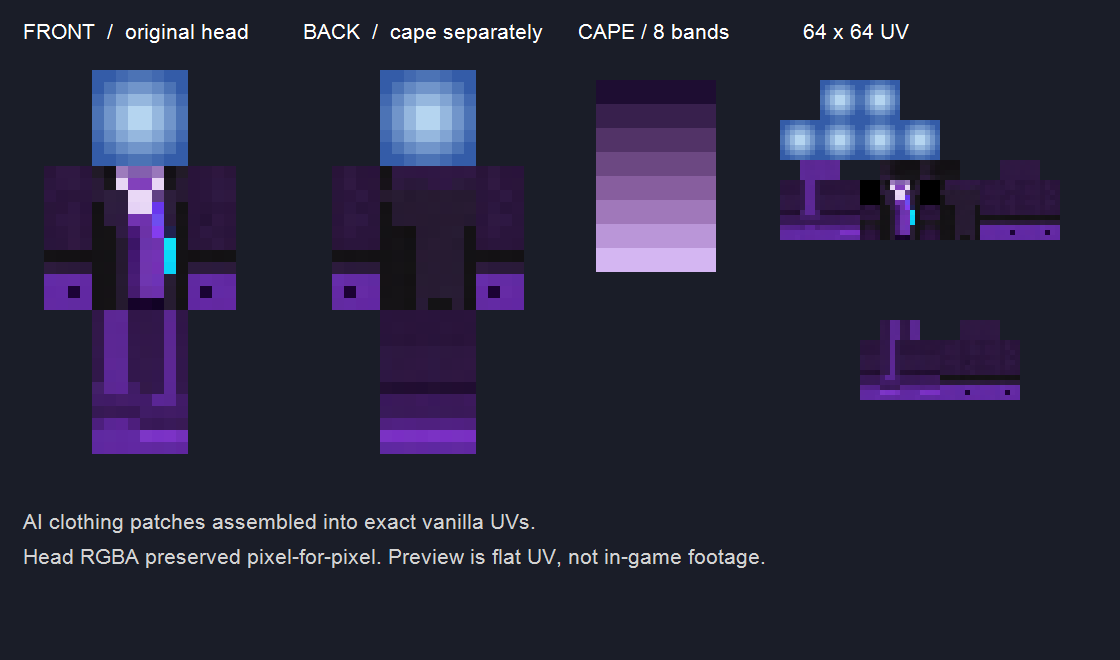
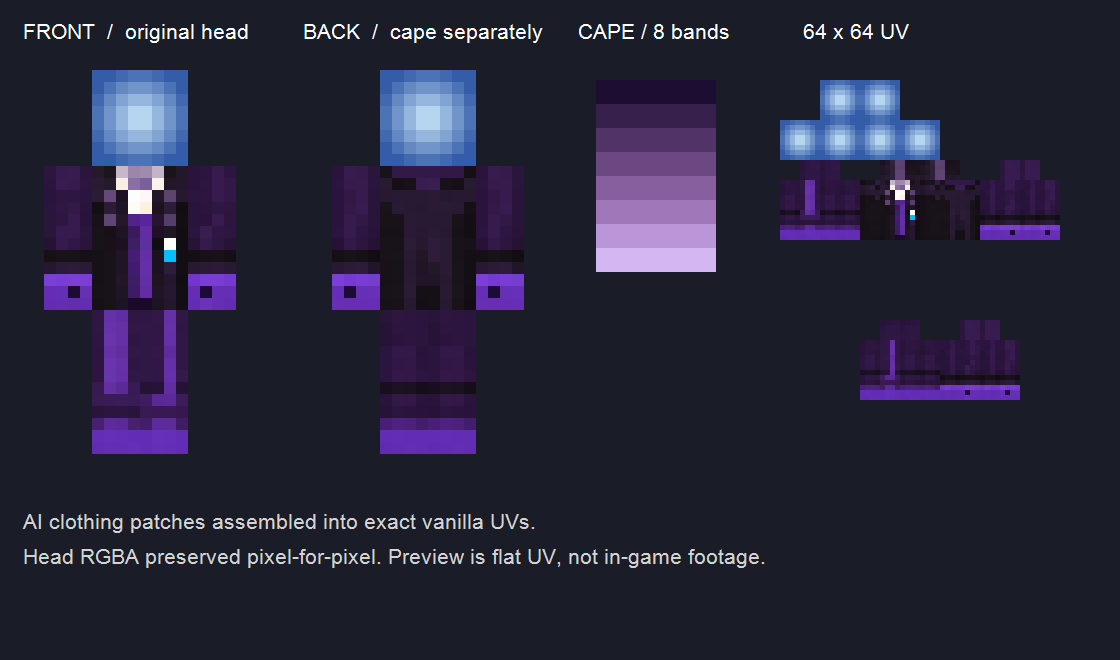
Goety Tuner v0.0.15 - 本体贴图精修（头部逐像素不变）
由另一位 agent 用 imagegen 精修 body 贴图，内容已核实。本轮**只改贴图 + 版本号 + 文档**，
没有任何 Java 改动、没有新增/删除资源、配置项数不变（仍 63）。

贴图（src/main/resources/assets/goetytuner/textures/entity/tuner.png，64x64 RGBA，2520 -> 2676 B）：
- 保留紫黑礼服 / 紫色袖口裤靴 / 浅色领巾 / 青色胸饰，精修翻领边缘、衣袖明暗、袖口细边、
  裤缝与靴口层次。
- **独立核验（不依赖其自带脚本）**：以 git HEAD（0.0.14）为基准逐像素差分 ——
  头部区 y0..15 全宽 64 列 **0 个像素差异**；全图 **alpha 蒙版完全一致**（未增删不透明像素）；
  身体区改动 **1247 像素**（与其自报数字吻合）；6 个主要 UV 面 **无透明空洞**。
- 制作过程入库：art/REFINEMENT.md（报告与最终提示词）、art/assemble-refinement.ps1（可复现装配）、
  art/body-refined-source.png（image_gen 原稿）、art/tuner-before-refinement.png（精修前备份）、
  以及更新后的 art/preview.png。

文档：四份说明文档各加一行「当前工作版本：0.0.15」横幅并指向 art/REFINEMENT.md
（旧版本说明保留为历史记录）。

部署：goetytuner-0.0.15.jar / 1,755,456 B / md5 1865ECF4EB22989319FD746806320776 / 102 条目，
已放入 versions\测试\mods（旧 0.0.14 已删）。核验：jar 内 4 张贴图与源码**逐字节一致**、
mods.toml `version="0.0.15"`、中文 credits 完好；并确认 0.0.13/0.0.14 的功能仍在
（blacklistBox / isPhase2Immune / refreshBlacklist / MusicController 的 ACCENT_DENSITY_DIVISOR
与 Accent thinning 日志串均存在）。

diff --git a/README.md b/README.md
@@ -1,5 +1,7 @@
 # Goety Tuner · 调律师
 
+> 当前工作版本：**0.0.15**。本体贴图精修，保持原有紫黑像素风与头部；详见 [精修记录](art/REFINEMENT.md)。下文旧版本说明保留为历史记录。
+
 > **0.0.14 发布（第 52 轮）**：本轮两件事，改 **4 个 Java 文件**（`client/TunerConfigScreen`、`focus/FocusPoolManager`、`entity/TunerBoss`、`config/TunerCommonConfig`）+ **2 个 lang** + 版本号，**只改代码、不动任何贴图/资源**（`.java` 仍 45 个、jar 条目仍 102）；**新增 1 个配置项** `phase2_buffs.phase2EffectImmunity`（Boolean，默认 **true**）⇒ 配置 **62 → 63 项**（`phase2_buffs` 段 **3 → 4**，`boss` 段仍 **19**，section 仍 10）。① **配置界面新增「聚晶黑名单」输入框**（`client/TunerConfigScreen` + `focus/FocusPoolManager`）：`focus.blacklist` 是 common 配置，而本模组的 `TunerConfigScreen` **顶替了 Forge 默认的 toml 编辑器**，该键此前在游戏内**完全没有入口**、只能手改文件；现补一个单行 `EditBox`（预填当前值，提示「namespace:path，英文逗号分隔；留空=不屏蔽」），**点「完成」关屏时保存**（最自然的"改完了"信号），点「开始评分」时也**顺带保存**；保存动作 = `FOCUS_BLACKLIST.set(v)` + `.save()` + `FocusPoolManager.refreshBlacklist()` ⇒ **改完立即生效**（`getBlacklist()` 以 raw 字符串为缓存键，值一变缓存自动失效 ⇒ 下一次抽取就过滤）。**新增 `FocusPoolManager.refreshBlacklist()`**：`initIfNeeded()` 扫描时是**直接 `continue` 跳过**黑名单聚晶（它们不进 `ALL_ENTRIES`），所以"**新增**拉黑"能靠 `draw()/drawUniform()` 的实时过滤立刻生效，但"**取消**拉黑"必须重扫才会回来；而重扫若 `new` 出全新 `FocusEntry`，会让实体侧那些**按对象身份**记录的状态失效（`TunerBoss.activeVisualCasts` 身份集合、`CastChannel.current`）⇒ 出现「立方体高亮卡住 / 施法收尾回调对不上」这类隐蔽问题。故新方法按 `namespace:path` 建索引**复用已有 `FocusEntry` 对象**，只为"这次才被解禁"的聚晶新建（它们此前不可能在施法中，故安全），然后重建 `STATIC_POOLS` 并重新 `applyTo` 分类。新增 4 个 lang 键（zh_cn / en_us 各 4 个）。限制：连他人的服务器时改的是**本地**那份 common toml，服务器侧不受影响（单机/局域网主机同进程，正常生效）。② **二阶段免疫「回复 / 减伤」类药水效果**（`entity/TunerBoss` + `config/TunerCommonConfig`）：扩展现有的 `canBeAffected` 覆写（它同时是 `addEffect` 与 `forceAddEffect` 的**第一道**判定，在这里返回 false 就是真正的免疫，而不是"加完再清"）；免疫名单 = **抗性提升** `DAMAGE_RESISTANCE` / **伤害吸收** `ABSORPTION` / **生命恢复** `REGENERATION` / **瞬间治疗** `HEAL` / **生命提升** `HEALTH_BOOST`，**仅当 `music.isPhase2()`** 时生效。**刻意只列这 5 项而不是"所有 beneficial"**：Boss 自己的二阶段增益（力量 `DAMAGE_BOOST` 与重振 `RALLYING`）也是 beneficial，一刀切会把它们一起禁掉；名单集中在私有 `isPhase2Immune(...)`，以后要加（例如某个附属的自定义减伤）加一行即可。新增配置 `phase2_buffs.phase2EffectImmunity`（Boolean，**默认 true**），false = 回到旧行为；不影响玩家的同类效果，也不影响 Boss 自己的二阶段自施。详见 `TECHNICAL_SUMMARY.md` §3.15。
 >
 > **上一轮（0.0.13）修复**：本轮改了 **7 个 Java 文件** + 版本号，**只改代码、不动任何贴图/资源**（`.java` 仍 45 个、jar 条目仍 102）；**新增 1 个配置项** `music.accentDensityDivisor` ⇒ 配置 **61 → 62 项**（`music` 段 12 → 13，section 仍 10）。① **修「玩家被击杀复活后（未走出索敌范围）背景音乐丢失」**（`client/BossMusicManager`）：起播唯一入口是 `if (music == null) startMusic()`，而"是否在播"**只**记录为静态字段 `music != null`、**从不与声音引擎核对**；玩家死亡/复活时引擎会把循环实例悄悄摘除（RECORDS 音量为 0、channel 停止、`SoundEngine.reload()→destroy()→stopAll()`、`play()` 在未 loaded 时静默返回），字段却仍非 null ⇒ 只要服务端 `playing` 一直为 true（**没脱战**），`startMusic` **永不重入** = **永久静音**；且 `onPlaySound` 也只看字段 ⇒ **连原版背景音乐也一起被永久取消**（症状「整个 BGM 都没了」）。修法：每 tick 用 **`SoundManager.isActive(music)`**（1.20.1 自带 API，已反编译确认存在）核实实例是否真的在响，失效即清空字段、下一 tick 自动重建（**自愈**），并加 **10 tick 防抖**；`onPlaySound` 判据同步改为 `music != null && isActive(music)`。② **重音标记滚动平滑 + 高潮改细小长条**（`client/MusicBarHud`）：`fill()` 只能落在整数像素、而刻度只有 1~2px ⇒ 取整后**逐像素跳动**；改为**亚像素覆盖**（小数部分按比例摊到相邻两列，亮度重心连续移动，调用点不再预先取整）；高潮的「中」字（贯通竖线 + 空心方框）改为**小长条**：高潮 **2×6** 最亮 / 低谷 **1×6** / 铺垫 **1×4**，全部竖向居中。③ **涟漪多波共存**（`client/AccentWaveRenderer` 的 `Map` 改 `List` + `MAX_WAVES = 32`）：二阶段进场重音每 5 tick 一发、连发多次，原先后一发**顶掉**前一发 ⇒ 只看到一条波反复重播；现每发各成一条波、各自计时，层叠外扩。④ **重音数量与频率降为 1/3**：新增 `music.accentDensityDivisor`（`IntValue`，默认 **3**、范围 1~9），从乐谱重音表"每 N 个保留 1 个"；抽稀在**服务端加载乐谱时**统一进行 ⇒ HUD 刻度（经 `SMusicSyncPacket` 全量同步）、击退、涟漪、提示音**一起**变稀疏，客户端无需改动（默认乐谱 37 → **13** 个重音，INFO `Accent thinning x3: 37 -> 13 accents`）。⑤ **小立方体高亮更明显 + 发光**（`client/render/TunerOrbLayer`）：高亮原为 `min(1, color*(1+glow*0.8))`，红/蓝/灰分量本就近 1、被 `min` 截断后**几乎看不出变化**，改为额外叠加 `glow*0.4` 逐通道**向白靠拢**；「发光」用**两层自发光外壳**（1.30×/alpha 0.36、再叠 1.35×/alpha 0.18，`RenderType.entityTranslucentEmissive`，着色器忽略光照 ⇒ 稳定发亮；已实证它同样无条件 `NO_CULL`）——**不能用原版发光描边**（MC 的发光是**整实体级** framebuffer 后处理 `OutlineBufferSource`，只能整只 Boss 一起描边，**无法只描一颗立方体**）。⑥ **药水效果可观测性**（`entity/TunerBoss`）：8 处 `addEffect(...)` 的 boolean 返回值原先**全被丢弃**，而 `canBeAffected` 与 Forge 的 `MobEffectEvent.Applicable` 都在这一步否掉 ⇒ 被拒时**静默失效、日志无一字**；新增 `applySelfEffect(...)` 打 WARN（已用于 boss 自身 4 处），并完成药水现状审计（见 `TECHNICAL_SUMMARY.md` §3.14(6)）。⑦ **配置侧**把 `goety:killing_focus`（索命聚晶，对施法者反噬 125%）加入 `focus.blacklist`——**这是配置侧改动、不在 jar 内**；且 `focus.blacklist`（乃至整个 `goetytuner-common.toml`）**无法在游戏内配置界面修改**。0.0.10 美术项与 0.0.12 新外观仍待游戏画面验收，见 [ART_ASSETS_REPORT.md](ART_ASSETS_REPORT.md)。

diff --git a/TECHNICAL_SUMMARY.md b/TECHNICAL_SUMMARY.md
@@ -1,5 +1,7 @@
 # Goety Tuner（调律师）技术摘要
 
+> 当前工作版本：**0.0.15**。本体贴图精修，保持原有紫黑像素风与头部；详见 [精修记录](art/REFINEMENT.md)。下文旧版本说明保留为历史记录。
+
 > **0.0.14 发布（第 52 轮）**：本轮两件事，改 **4 个 Java 文件**（`client/TunerConfigScreen`、`focus/FocusPoolManager`、`entity/TunerBoss`、`config/TunerCommonConfig`）+ **2 个 lang** + 版本号，**只改代码、不动任何贴图/资源**（`.java` 文件数仍 45、jar 条目仍 102）；**新增 1 个配置项** `phase2_buffs.phase2EffectImmunity`（Boolean，默认 **true**）⇒ 配置 **62 → 63 项**（`phase2_buffs` 段 **3 → 4**，`boss` 段仍 **19**，section 数仍 10）。① **配置界面新增「聚晶黑名单」输入框**（`client/TunerConfigScreen` + `focus/FocusPoolManager`）：`focus.blacklist` 是 common 配置，而本模组的 `TunerConfigScreen` **顶替了 Forge 默认的 toml 编辑器**，该键此前在游戏内**完全没有入口**、只能手改文件；现补一个单行 `EditBox`（预填当前值，提示「namespace:path，英文逗号分隔；留空=不屏蔽」），**点「完成」关屏时保存**（最自然的"改完了"信号），点「开始评分」时也**顺带保存**；保存动作 = `FOCUS_BLACKLIST.set(v)` + `.save()` + `FocusPoolManager.refreshBlacklist()` ⇒ **改完立即生效**（`getBlacklist()` 以 raw 字符串为缓存键，值一变缓存自动失效 ⇒ 下一次抽取就过滤）。**新增 `FocusPoolManager.refreshBlacklist()`**：`initIfNeeded()` 扫描时是**直接 `continue` 跳过**黑名单聚晶（它们不进 `ALL_ENTRIES`），所以"**新增**拉黑"能靠 `draw()/drawUniform()` 的实时过滤立刻生效，但"**取消**拉黑"必须重扫才会回来；而重扫若 `new` 出全新 `FocusEntry`，会让实体侧那些**按对象身份**记录的状态失效（`TunerBoss.activeVisualCasts` 身份集合、`CastChannel.current`）⇒ 出现「立方体高亮卡住 / 施法收尾回调对不上」这类隐蔽问题。故新方法按 `namespace:path` 建索引**复用已有 `FocusEntry` 对象**，只为"这次才被解禁"的聚晶新建（它们此前不可能在施法中，故安全），然后重建 `STATIC_POOLS` 并重新 `applyTo` 分类。新增 4 个 lang 键（zh_cn / en_us 各 4 个）：`config.goetytuner.blacklist.label` / `.blacklist` / `.blacklist.hint` / `.blacklist.saved`。限制：连他人的服务器时改的是**本地**那份 common toml，服务器侧不受影响（单机/局域网主机同进程，正常生效）。② **二阶段免疫「回复 / 减伤」类药水效果**（`entity/TunerBoss` + `config/TunerCommonConfig`）：扩展现有的 `canBeAffected` 覆写（它同时是 `addEffect` 与 `forceAddEffect` 的**第一道**判定，在这里返回 false 就是真正的免疫，而不是"加完再清"）；免疫名单 = **抗性提升** `DAMAGE_RESISTANCE` / **伤害吸收** `ABSORPTION` / **生命恢复** `REGENERATION` / **瞬间治疗** `HEAL` / **生命提升** `HEALTH_BOOST`，**仅当 `music.isPhase2()`** 时生效。**刻意只列这 5 项而不是"所有 beneficial"**：Boss 自己的二阶段增益（力量 `DAMAGE_BOOST` 与重振 `RALLYING`）也是 beneficial，一刀切会把它们一起禁掉；名单集中在私有 `isPhase2Immune(...)`，以后要加（例如某个附属的自定义减伤）加一行即可。新增配置 `phase2_buffs.phase2EffectImmunity`（Boolean，**默认 true**），false = 回到旧行为；不影响玩家的同类效果，也不影响 Boss 自己的二阶段自施。详见 §3.15。
 >
 > **上一轮（0.0.13）修复**：本轮改了 **7 个 Java 文件** + 版本号，**只改代码、不动任何贴图/资源**（`.java` 文件数仍 45、jar 条目仍 102）；**新增 1 个配置项** `music.accentDensityDivisor` ⇒ 配置 **61 → 62 项**（`music` 段 12 → 13，section 数仍 10）。① **修「玩家被击杀复活后（未走出索敌范围）背景音乐丢失」**：`BossMusicManager` 原先只以静态字段 `music != null` 当作「在播」，**从不与声音引擎核对**，而死亡/复活会让引擎把循环实例悄悄摘除（RECORDS 音量为 0 / channel 被停止 / `SoundEngine.reload()→destroy()→stopAll()` / `play()` 在未 loaded 时静默返回），字段却仍非 null ⇒ 只要服务端 `playing` 一直为 true（没脱战）`startMusic` **永不重入** = **永久静音**；且 `onPlaySound` 同样只看字段 ⇒ **连原版背景音乐也一起被永久取消**（用户症状「整个 BGM 都没了」）。改为每 tick 用 **`SoundManager.isActive(music)`**（1.20.1 自带 API）核实实例是否真的在响，失效即清空字段、下一 tick 自动重建（**自愈**），并加 **10 tick 防抖**；`onPlaySound` 判据同步改为 `music != null && isActive(music)`。详见 §3.14(1)。② **重音标记滚动平滑 + 高潮标记改小长条**（`MusicBarHud`）：`fill()` 只能落在整数像素、而刻度是 1~2px 细条，取整后**逐像素跳动**；改为**亚像素覆盖**（小数部分按比例摊到相邻两列，亮度重心连续移动）；高潮的「中」字（贯通竖线 + 空心方框）改为**小长条**（高潮 2×6 / 低谷 1×6 / 铺垫 1×4，竖向居中）。③ **涟漪多波共存**（`AccentWaveRenderer` 的 `Map` 改 `List` + `MAX_WAVES = 32`）：二阶段进场重音每 5 tick 一发，原先后一发**顶掉**前一发、只看到一条波反复重播。④ **重音抽稀**：新增 `music.accentDensityDivisor`（默认 **3**、范围 1~9）在**服务端加载乐谱时**「每 N 个保留 1 个」⇒ HUD 刻度（经 `SMusicSyncPacket` 全量同步）/ 击退 / 涟漪 / 提示音**一起**变稀疏、客户端零改动（默认乐谱 37 → **13** 个重音）。⑤ **立方体高亮改「向白插值」+ 两层自发光外壳当发光**（`TunerOrbLayer`）：原 `min(1, color*(1+glow*0.8))` 因各分量已接近 1 而被截断、几乎看不出高亮；发光**不能用原版描边**（MC 的发光是**整实体级** framebuffer 后处理 `OutlineBufferSource`，无法只描一颗立方体），故改用 `entityTranslucentEmissive` 外壳。⑥ **药水可观测性**：8 处 `addEffect` 的 boolean 返回值原先全被丢弃 ⇒ 被 `canBeAffected` / `MobEffectEvent.Applicable` 拒绝时静默失效；新增 `applySelfEffect` 打 WARN（已用于 boss 自身 4 处），并完成药水现状审计（详见 §3.14(6)）。⑦ 配置侧把 **`goety:killing_focus`（索命聚晶）** 加入 `focus.blacklist`——**这是配置侧改动、不在 jar 内**；且 `focus.blacklist`（乃至整个 `goetytuner-common.toml`）**无法在游戏内配置界面修改**。0.0.10 美术项与 0.0.12 新外观仍待游戏画面验收，见 [ART_ASSETS_REPORT.md](ART_ASSETS_REPORT.md)。

diff --git a/DEVELOPMENT_PLAN.md b/DEVELOPMENT_PLAN.md
@@ -1,5 +1,7 @@
 # 调律师 (The Tuner) — 诡厄巫法附属Boss · 开发计划书 V2
 
+> 当前工作版本：**0.0.15**。本体贴图精修，保持原有紫黑像素风与头部；详见 [精修记录](art/REFINEMENT.md)。下文旧版本说明保留为历史记录。
+
 > **0.0.14 发布（第 52 轮）**：本轮两件事，改 **4 个 Java 文件**（`client/TunerConfigScreen`、`focus/FocusPoolManager`、`entity/TunerBoss`、`config/TunerCommonConfig`）+ **2 个 lang** + 版本号，**只改代码、不动任何贴图/资源**（`.java` 文件数仍 45、jar 条目仍 102）；**新增 1 个配置项** `phase2_buffs.phase2EffectImmunity`（Boolean，默认 **true**）⇒ 配置 **62 → 63 项**（`phase2_buffs` 段 **3 → 4**，`boss` 段仍 **19**，section 仍 10 个）。① **配置界面新增「聚晶黑名单」输入框**（`client/TunerConfigScreen` + `focus/FocusPoolManager`）：`focus.blacklist` 是 common 配置，而本模组的 `TunerConfigScreen` **顶替了 Forge 默认的 toml 编辑器**，该键此前在游戏内**完全没有入口**、只能手改文件；现补一个单行 `EditBox`（预填当前值，提示「namespace:path，英文逗号分隔；留空=不屏蔽」），**点「完成」关屏时保存**（最自然的"改完了"信号），点「开始评分」时也**顺带保存**；保存动作 = `FOCUS_BLACKLIST.set(v)` + `.save()` + `FocusPoolManager.refreshBlacklist()` ⇒ **改完立即生效**（`getBlacklist()` 以 raw 字符串为缓存键，值一变缓存自动失效 ⇒ 下一次抽取就过滤）。**新增 `FocusPoolManager.refreshBlacklist()`**：`initIfNeeded()` 扫描时是**直接 `continue` 跳过**黑名单聚晶（它们不进 `ALL_ENTRIES`），所以"**新增**拉黑"能靠 `draw()/drawUniform()` 的实时过滤立刻生效，但"**取消**拉黑"必须重扫才会回来；而重扫若 `new` 出全新 `FocusEntry`，会让实体侧那些**按对象身份**记录的状态失效（`TunerBoss.activeVisualCasts` 身份集合、`CastChannel.current`）⇒ 出现「立方体高亮卡住 / 施法收尾回调对不上」这类隐蔽问题。故新方法按 `namespace:path` 建索引**复用已有 `FocusEntry` 对象**，只为"这次才被解禁"的聚晶新建（它们此前不可能在施法中，故安全），然后重建 `STATIC_POOLS` 并重新 `applyTo` 分类。新增 4 个 lang 键（zh_cn / en_us 各 4 个）。限制：连他人的服务器时改的是**本地**那份 common toml，服务器侧不受影响（单机/局域网主机同进程，正常生效）。② **二阶段免疫「回复 / 减伤」类药水效果**（`entity/TunerBoss` + `config/TunerCommonConfig`）：扩展现有的 `canBeAffected` 覆写（它同时是 `addEffect` 与 `forceAddEffect` 的**第一道**判定，在这里返回 false 就是真正的免疫，而不是"加完再清"）；免疫名单 = **抗性提升** `DAMAGE_RESISTANCE` / **伤害吸收** `ABSORPTION` / **生命恢复** `REGENERATION` / **瞬间治疗** `HEAL` / **生命提升** `HEALTH_BOOST`，**仅当 `music.isPhase2()`** 时生效。**刻意只列这 5 项而不是"所有 beneficial"**：Boss 自己的二阶段增益（力量 `DAMAGE_BOOST` 与重振 `RALLYING`）也是 beneficial，一刀切会把它们一起禁掉；名单集中在私有 `isPhase2Immune(...)`，以后要加（例如某个附属的自定义减伤）加一行即可。新增配置 `phase2_buffs.phase2EffectImmunity`（Boolean，**默认 true**），false = 回到旧行为；不影响玩家的同类效果，也不影响 Boss 自己的二阶段自施。详见 `TECHNICAL_SUMMARY.md` §3.15。
 >
 > **上一轮（0.0.13）修复**：本轮改了 **7 个 Java 文件** + 版本号，**只改代码、不动任何贴图/资源**（`.java` 文件数仍 45、jar 条目仍 102）；**新增 1 个配置项** `music.accentDensityDivisor` ⇒ 配置 **61 → 62 项**（`music` 段 12 → 13，section 仍 10 个）。① **修「玩家被击杀复活后（未走出索敌范围）背景音乐丢失」**（`BossMusicManager`）：原先只以静态字段 `music != null` 当作「在播」、**从不与声音引擎核对**，而死亡/复活会让引擎把循环实例悄悄摘除（RECORDS 音量为 0 / channel 被停止 / `SoundEngine.reload()→destroy()→stopAll()` / `play()` 在未 loaded 时静默返回），字段却仍非 null ⇒ 只要服务端 `playing` 一直为 true（没脱战）`startMusic` **永不重入** = **永久静音**，且 `onPlaySound` 同样只看字段 ⇒ **连原版背景音乐也一起被永久取消**（症状「整个 BGM 都没了」）；改为每 tick 用 **`SoundManager.isActive(music)`** 核实 + **10 tick 防抖**，失效即清空字段、下一 tick 自愈重建。② **重音标记滚动平滑 + 高潮改细小长条**（`MusicBarHud`）：`fill()` 只能落在整数像素、刻度只有 1~2px ⇒ 取整后逐像素跳动；改为**亚像素覆盖**（小数部分按比例摊到相邻两列，亮度重心连续移动）；高潮「中」字改为**小长条**（高潮 2×6 / 低谷 1×6 / 铺垫 1×4，竖向居中）。③ **涟漪多波共存**（`AccentWaveRenderer` 的 `Map` 改 `List` + `MAX_WAVES = 32`）：二阶段进场重音每 5 tick 一发，原先后一发**顶掉**前一发、只看到一条波反复重播。④ **重音数量与频率降为 1/3**：新增 `music.accentDensityDivisor`（默认 **3**、范围 1~9），在**服务端加载乐谱时**「每 N 个保留 1 个」⇒ HUD 刻度 / 击退 / 涟漪 / 提示音**一起**变稀疏、客户端零改动（默认乐谱 37 → **13** 个重音）。⑤ **立方体高亮更明显 + 发光**（`TunerOrbLayer`）：高亮改为额外叠加 `glow*0.4` 逐通道**向白靠拢**（原先 `min(1, color*(1+glow*0.8))` 被 `min` 截断、几乎看不出变化），发光用**两层 `entityTranslucentEmissive` 自发光外壳**——**不能用原版发光描边**（MC 的发光是**整实体级** framebuffer 后处理 `OutlineBufferSource`，只能整只 Boss 一起描边，无法只描一颗立方体）。⑥ **药水效果可观测性**：8 处 `addEffect` 的 boolean 返回值原先全被丢弃 ⇒ 被 `canBeAffected` / `MobEffectEvent.Applicable` 拒绝时静默失效；新增 `applySelfEffect` 打 WARN（用于 boss 自身 4 处），并完成药水现状审计。⑦ 配置侧把 **`goety:killing_focus`（索命聚晶，对施法者反噬 125%）** 加入 `focus.blacklist`——**配置侧改动、不在 jar 内**；且 `focus.blacklist`（乃至整个 toml）**无法在游戏内配置界面修改**。0.0.10 美术项与 0.0.12 新外观仍待游戏画面验收，见 [ART_ASSETS_REPORT.md](ART_ASSETS_REPORT.md)。

diff --git a/art/REFINEMENT.md b/art/REFINEMENT.md
@@ -1,0 +1,19 @@
+# 本体贴图精修 · 0.0.15
+
+保留 64×64 原版 UV、紫黑礼服、紫色袖口/裤靴、浅色领巾和青色胸饰。调整翻领边缘、衣袖明暗、袖口细边、裤缝与靴口层次。头部和帽层逐像素保留；模型与动画无改动。
+
+- 游戏资源：`../src/main/resources/assets/goetytuner/textures/entity/tuner.png`
+- 精修前备份：`tuner-before-refinement.png`
+- 内置 image_gen 原稿：`body-refined-source.png`
+- 可复现装配：`powershell -ExecutionPolicy Bypass -File art/assemble-refinement.ps1`
+- 平面正背面预览：`preview.png`，由 `preview-assets.ps1` 生成，不是游戏截图。
+
+生成图没有严格保持矩形位置，因此重新测量图块，按最近邻采样装配到原有 UV。腿部背面采用裤料图块，避免误用带袖扣的图块。生成图的头部不参与成品装配。
+
+使用 imagegen 技能的内置工具模式；最终提示词如下：
+
+> Edit this existing Minecraft purple conductor clothing texture atlas, precise-object-edit. Keep EXACT image composition, rectangular patch positions, sizes, gaps and silhouettes of this 1263x1246 source. Refine ONLY existing clothing patches in place, same dark black/plum/violet palette and crisp low-resolution pixel art style. Make tailored jacket lapels clearer with narrow muted lavender edge highlights, subtle structured dark-purple fabric folds, clean ivory cravat, existing cyan chest chain a delicate cyan chain, waistcoat buttons, neat cuff piping and single cuff button, restrained trouser seams and crisp boot trim. Preserve overall dark values, purple cuffs and boots, no gold, no new symbols, no elaborate embroidery, no realistic texture or soft gradients. Use large readable pixel clusters so refinement survives sampling each sleeve/leg rectangle to 4x12 pixels and torso to 8x12 pixels. Do not move or resize any rectangle. Upper head patches unchanged. Output the atlas only, transparent background, no text or previews.
+
+验证：`python art/verify_assets.py` 已通过，包括 PNG 格式、头部一致、全部身体 UV 面不透明与现有其他资源检查。尚未进行游戏内实测，也未部署到游玩实例。
+
+独立对比本轮备份：修改 1247 个身体像素，整个头部 RGBA 与全图 alpha 蒙版均保持一致。JDK 17 离线 `gradlew.bat build --offline` 成功；成品 `build/libs/goetytuner-0.0.15.jar` 内贴图与源码资源逐字节一致，版本元数据已核对。

diff --git a/DESIGN_RITUAL_WAND_UPGRADE.md b/DESIGN_RITUAL_WAND_UPGRADE.md
@@ -1,5 +1,7 @@
 # 《仪式召唤 + 法杖升级》设计方案（任务 #118）
 
+> 当前工作版本：**0.0.15**。本体贴图精修，保持原有紫黑像素风与头部；详见 [精修记录](art/REFINEMENT.md)。下文旧版本说明保留为历史记录。
+
 > **【实施状态】已完成。** 本方案已于第 36 轮落地（当时版本 v0.7.0），当前版本 0.0.14（第 52 轮）。
 > 实际落地的类名与本文稿略有差异，见文末「实施差异」一节。
 > 本文稿保留作为设计留痕（含反编译实证依据），**技术现状请以 `TECHNICAL_SUMMARY.md` 为准**。
